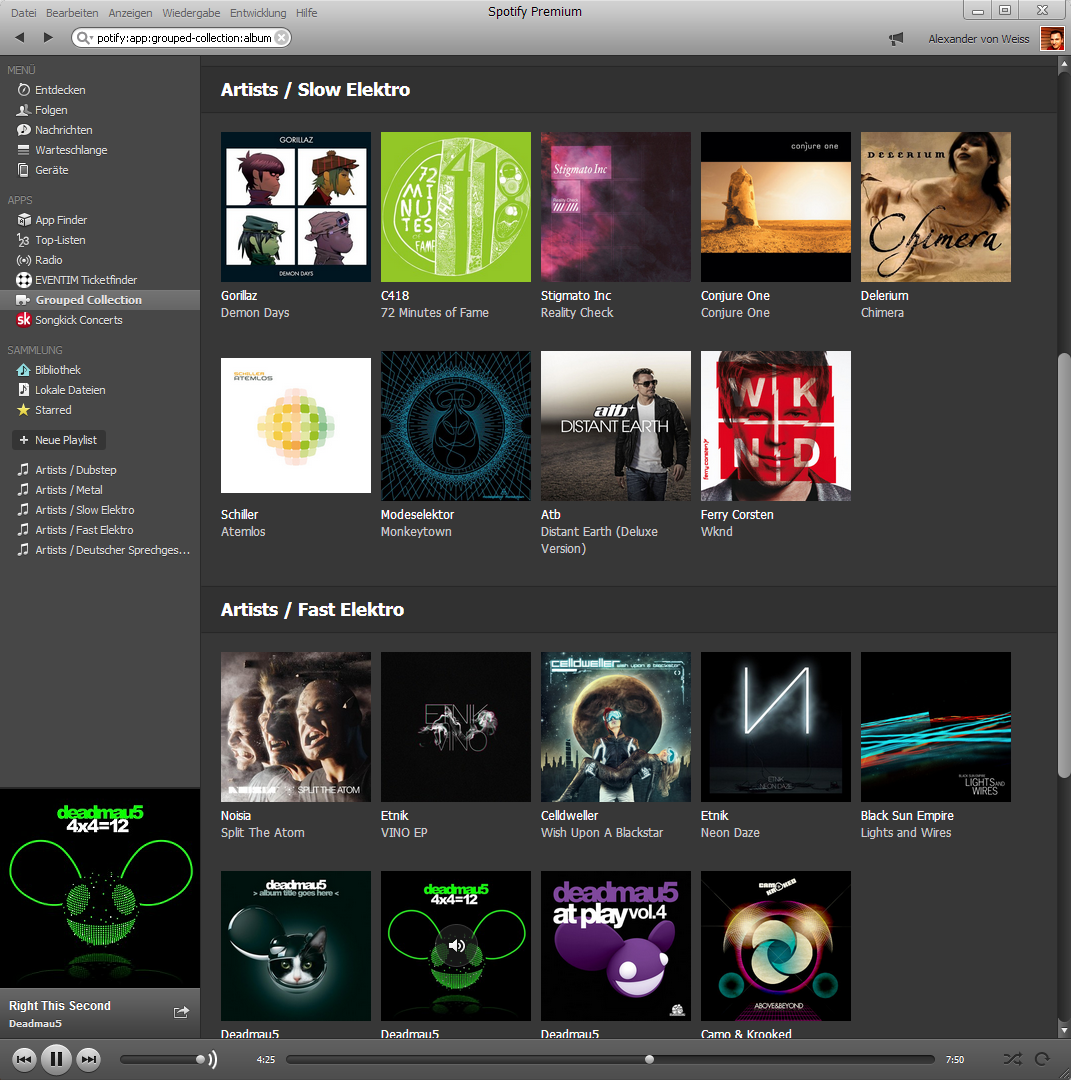
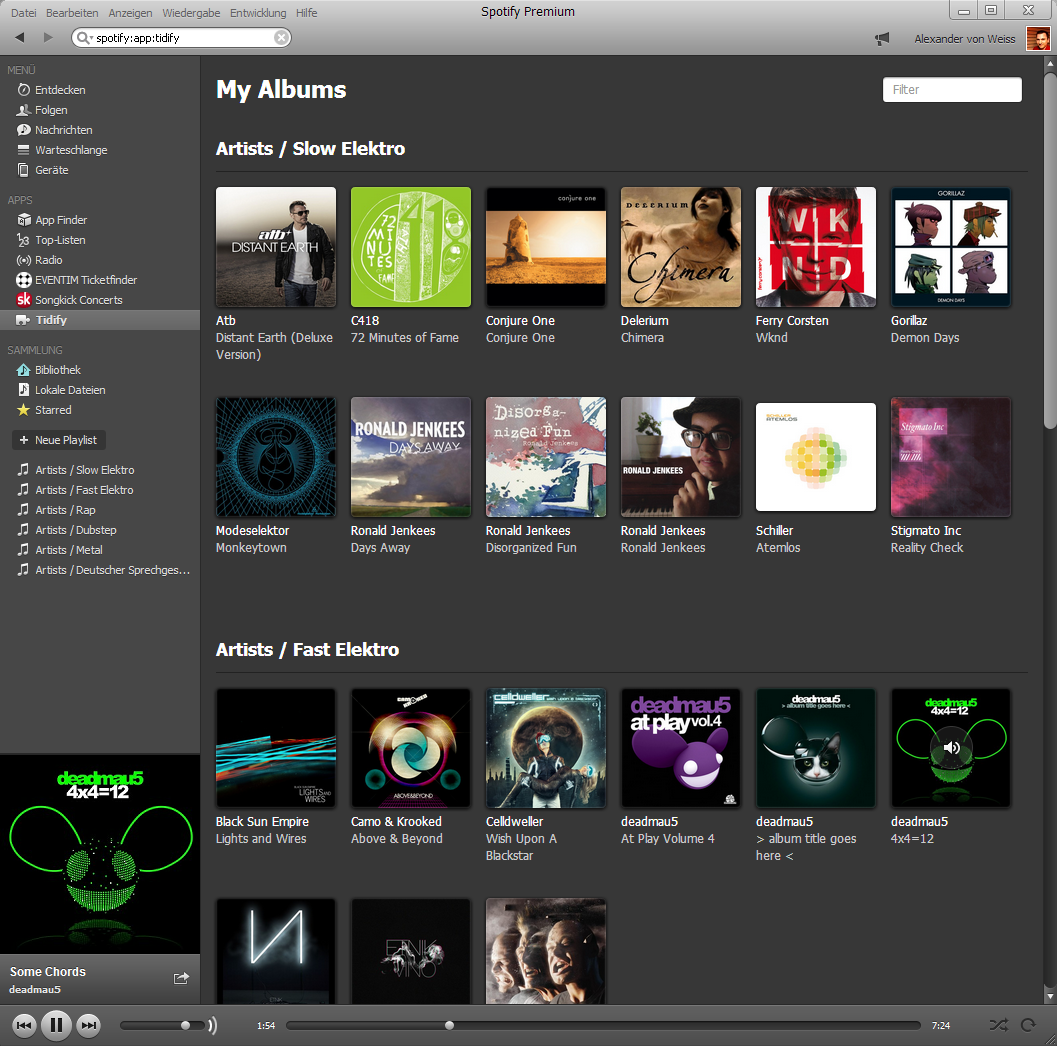
update readme and screenshot

diff --git a/README.md b/README.md
@@ -11,6 +11,8 @@ Group your playlist tracks as albums
  5. Download the [latest version of Spotify](http://spotify.com/download).
  6. Open Spotify and type `spotify:app:tidify` in the search bar (restart Spotify completely in case it doesn't find the App at first).
 
+Sadly you have to repeat step 6 every time you restart Spotify as this app is not listed in the App Finder.
+
 ## Resources
 
 API 1.0: https://developer.spotify.com/docs/apps/api/1.0/index.html
